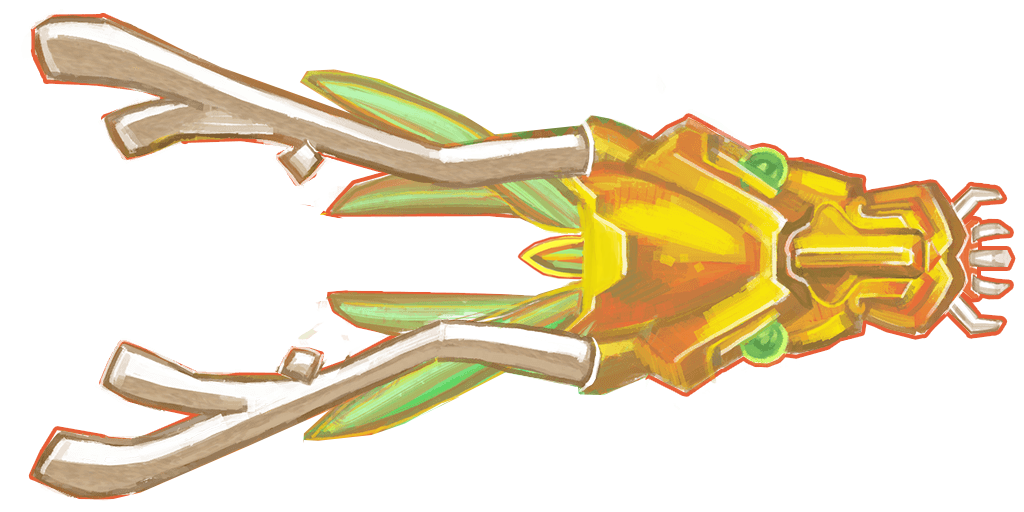
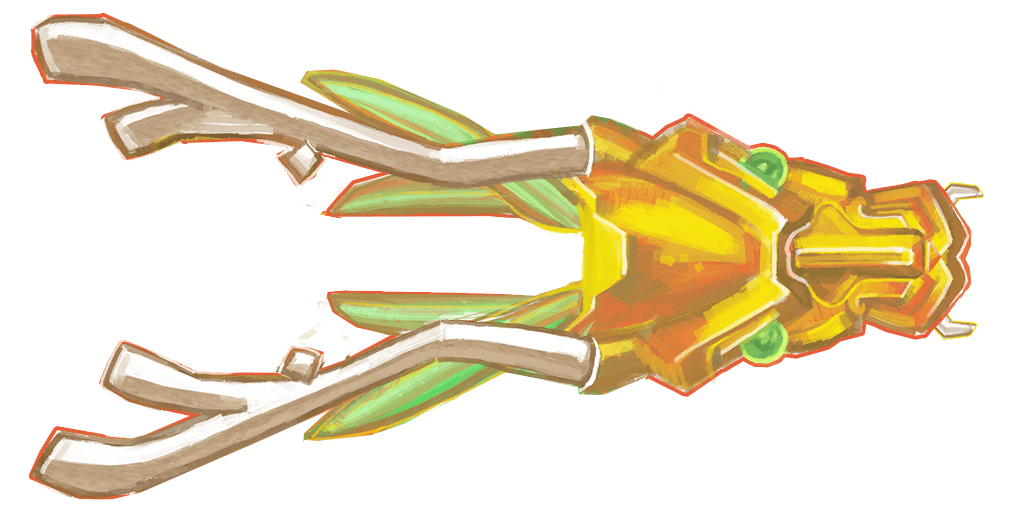
Add geometry for eyes.

Changed region(s): [[0.9062, 0.3438, 1.0, 0.6875], [0.5, 0.4375, 0.5938, 0.5625]]

diff --git a/src/renderer.ts b/src/renderer.ts
@@ -14,7 +14,7 @@
 // Renderer object types
 //
 enum RendererObjectType {
-  SPRITE, SPRITE_PIVOT_RIGHT
+  SPRITE, SPRITE_PIVOT_RIGHT, SPHERE
 }
 
 // Renderer interface
@@ -59,6 +59,8 @@ class ThreeRenderer implements Renderer {
   private scene:    THREE.Scene;
   private textureLoader: THREE.TextureLoader;
 
+  private geometryBuffers = {};
+
   private fadeSpeed:   number;
   private fadeInList:  SlotList;
   private fadeOutList: SlotList;
@@ -94,21 +96,57 @@ class ThreeRenderer implements Renderer {
       this.renderer.setSize(this.width, this.height);
     });
 
-    /*var light1 = new THREE.DirectionalLight( 0xffffff, 0.8 );
+    let light1 = new THREE.DirectionalLight( 0xffffff, 0.8 );
     light1.position.set( -1.0, +1.0, 0.5 );
     this.scene.add( light1 );
 
-    var light2 = new THREE.DirectionalLight( 0xffffff, 0.1 );
+    let light2 = new THREE.DirectionalLight( 0xffffff, 0.1 );
     light2.position.set( +1.0, -1.0, -0.5 );
-    this.scene.add( light2 );*/
+    this.scene.add( light2 );
 
-    //this.renderer.setClearColor( new THREE.Color(255,255,255) );
+    //this.renderer.setClearColor( new THREE.Color(155,155,155) );
 
     this.fadeSpeed    = 1.5;
     this.fadeInList   = new SlotList();
     this.fadeOutList  = new SlotList();
+
+    this.createGeometryBuffers();
   }
 
+  // Geometry to be instantiated by objects
+  //
+  private createGeometryBuffers() {
+    let spriteGeometry    = new THREE.PlaneBufferGeometry( 1.0, 1.0, 1, 1 );
+    let spritePivotRight  = new THREE.BufferGeometry();
+    let sphereGeometry    = new THREE.SphereBufferGeometry(1.0, 6, 6);
+
+    let vertices = new Float32Array( [
+        -1.0, -0.5, 0.0,
+        +0.0, -0.5, 0.0,
+        +0.0, +0.5, 0.0,
+
+        +0.0, +0.5, 0.0,
+        -1.0, +0.5, 0.0,
+        -1.0, -0.5, 0.0 ]);
+    let uvs = new Float32Array( [
+        -0.0, -0.0,
+        +1.0, -0.0,
+        +1.0, +1.0,
+
+        +1.0, +1.0,
+        -0.0, +1.0,
+        -0.0, -0.0 ]);
+
+    spritePivotRight.addAttribute( 'position', new THREE.BufferAttribute(vertices, 3) );
+    spritePivotRight.addAttribute( 'uv', new THREE.BufferAttribute(uvs, 2) );
+
+    this.geometryBuffers[RendererObjectType.SPRITE] = spriteGeometry;
+    this.geometryBuffers[RendererObjectType.SPRITE_PIVOT_RIGHT] = spritePivotRight;
+    this.geometryBuffers[RendererObjectType.SPHERE] = sphereGeometry;
+  }
+
+  // Get an object by id
+  //
   private get(id: number): THREE.Object3D {
       return this.scene.getObjectById(id);
   }
@@ -120,43 +158,21 @@ class ThreeRenderer implements Renderer {
     spriteMap.magFilter = THREE.LinearFilter;
     spriteMap.minFilter = THREE.LinearFilter;
 
-    let spriteMaterial = new THREE.MeshBasicMaterial( { side: THREE.DoubleSide, color: 0xffffff, map: spriteMap, transparent: true, depthTest: false} );
-    let obj: THREE.Mesh;
+    let material: THREE.Material;
 
-    if( type == RendererObjectType.SPRITE_PIVOT_RIGHT ) {
-      let bufferGeometry = new THREE.BufferGeometry()
-      let vertices = new Float32Array( [
-        -1.0, -0.5, 0.0,
-        +0.0, -0.5, 0.0,
-        +0.0, +0.5, 0.0,
-
-        +0.0, +0.5, 0.0,
-        -1.0, +0.5, 0.0,
-        -1.0, -0.5, 0.0
-      ]);
-
-      let uvs = new Float32Array( [
-        -0.0, -0.0,
-        +1.0, -0.0,
-        +1.0, +1.0,
-
-        +1.0, +1.0,
-        -0.0, +1.0,
-        -0.0, -0.0
-      ]);
-
-      bufferGeometry.addAttribute( 'position', new THREE.BufferAttribute(vertices, 3) );
-      bufferGeometry.addAttribute( 'uv', new THREE.BufferAttribute(uvs, 2) );
-      obj = new THREE.Mesh( bufferGeometry, spriteMaterial );
-    }
-    else if( type == RendererObjectType.SPRITE ) {
-      let planeBufferGeometry = new THREE.PlaneBufferGeometry( 1.0, 1.0, 1, 1 );
-      obj = new THREE.Mesh( planeBufferGeometry, spriteMaterial );
+    if( type == RendererObjectType.SPHERE ) {
+      material = new THREE.MeshStandardMaterial({
+        color: 0x9acd66,
+        envMap: spriteMap,
+        emissive: new THREE.Color(0x5f9d4a),
+        metalness: 0.8,
+        roughness: 0.4} );
     }
     else {
-      console.log("Invalid renderer object type.");
-      return 0;
+      material = new THREE.MeshBasicMaterial( { side: THREE.DoubleSide, color: 0xffffff, map: spriteMap, transparent: true} );
     }
+
+    let obj: THREE.Mesh = new THREE.Mesh( this.geometryBuffers[type], material );
 
     obj.position.x = position.x;
     obj.position.y =  position.y;

diff --git a/src/game_object_creature.ts b/src/game_object_creature.ts
@@ -37,10 +37,11 @@ class GameObjectCreature implements GameObject {
   //
   protected renderer: Renderer;
 
-  private static readonly rendererImageHead: string = "headElement0.png";
-  private static readonly rendererImageHeadElement1: string = "headElement1.png";
-  private static readonly rendererImageHeadElement2: string = "headElement2.png";
-  private static readonly rendererImageHeadElement3: string = "headElement3.png";
+  private static readonly rendererImageHead: string        = "headElement0.png";
+  private static readonly rendererImageWingLeft: string    = "headElement1.png";
+  private static readonly rendererImageWingRight: string   = "headElement2.png";
+  private static readonly rendererImageWingCenter: string  = "headElement3.png";
+  private static readonly rendererImageEye: string         = "headElement4.png";
 
   private static readonly rendererImageBody: string = "body.png";
   private static readonly rendererImageTail: string = "tail.png";
@@ -125,11 +126,27 @@ class GameObjectCreature implements GameObject {
       GameObjectCreature.ratioHead ));
 
     headElements.push( new DynamicListPosed(
+      new VectorAreal( this.position.x, this.position.y, this.position.areal * 0.1 ),
+      new Vector(+0.75 * this.position.areal, +0.31 * this.position.areal),
+      Math.PI * 6.0,
+      this.renderer,
+      GameObjectCreature.rendererImageEye,
+      1.0, RendererObjectType.SPHERE ));
+
+    headElements.push( new DynamicListPosed(
+      new VectorAreal( this.position.x, this.position.y, this.position.areal * 0.1 ),
+      new Vector(+0.75 * this.position.areal, -0.31 * this.position.areal),
+      Math.PI * 6.0,
+      this.renderer,
+      GameObjectCreature.rendererImageEye,
+      1.0, RendererObjectType.SPHERE ));
+
+    headElements.push( new DynamicListPosed(
       new VectorAreal( this.position.x, this.position.y, this.position.areal * 2.0 ),
       new Vector(0.0 * this.position.areal, +1.0 * this.position.areal),
       Math.PI * 1.8,
       this.renderer,
-      GameObjectCreature.rendererImageHeadElement1,
+      GameObjectCreature.rendererImageWingLeft,
       GameObjectCreature.ratioTail * 0.6 ));
 
     headElements.push( new DynamicListPosed(
@@ -137,7 +154,7 @@ class GameObjectCreature implements GameObject {
       new Vector(0.0 * this.position.areal, -1.0 * this.position.areal),
       Math.PI * 1.8,
       this.renderer,
-      GameObjectCreature.rendererImageHeadElement2,
+      GameObjectCreature.rendererImageWingRight,
       GameObjectCreature.ratioTail * 0.6 ));
 
     headElements.push( new DynamicListPosed(
@@ -145,7 +162,7 @@ class GameObjectCreature implements GameObject {
       new Vector(+0.0 * this.position.areal, +0.0 * this.position.areal),
       Math.PI * 2.5,
       this.renderer,
-      GameObjectCreature.rendererImageHeadElement3,
+      GameObjectCreature.rendererImageWingCenter,
       GameObjectCreature.ratioTail * 1.4 ));
 
     for(let element of headElements) {
@@ -153,6 +170,8 @@ class GameObjectCreature implements GameObject {
       this.renderer.positionz(element.getID(), +0.002);
     }
     this.renderer.positionz(headElements[0].getID(), +0.003)
+    this.renderer.positionz(headElements[1].getID(), this.position.areal * 0.05 + 0.003)
+    this.renderer.positionz(headElements[2].getID(), this.position.areal * 0.05 + 0.003)
   }
 
   // Append the decoraive branches to the body
@@ -165,7 +184,7 @@ class GameObjectCreature implements GameObject {
       new Vector(0.0 * this.position.areal, +0.8 * this.position.areal),
       Math.PI * 1.0,
       this.renderer,
-      GameObjectCreature.rendererImageHeadElement1,
+      GameObjectCreature.rendererImageWingLeft,
       GameObjectCreature.ratioTail * 0.6 ));
 
     bodyElements.push( new DynamicListPosed(
@@ -173,7 +192,7 @@ class GameObjectCreature implements GameObject {
       new Vector(0.0 * this.position.areal, -0.8 * this.position.areal),
       Math.PI * 1.0,
       this.renderer,
-      GameObjectCreature.rendererImageHeadElement2,
+      GameObjectCreature.rendererImageWingRight,
       GameObjectCreature.ratioTail * 0.6 ));
 
       for(let element of bodyElements) {

diff --git a/src/dynamic_list_posed.ts b/src/dynamic_list_posed.ts
@@ -23,13 +23,16 @@ class DynamicListPosed extends DynamicList {
   private angularSpeed: number; // Rad per second
   private angle: number = null;
 
-  constructor( position: VectorAreal, pose: Vector, angularSpeed: number, renderer: Renderer, image: string, imageRatio: number ) {
+  constructor( position: VectorAreal, pose: Vector, angularSpeed: number,
+               renderer: Renderer, image: string, imageRatio: number,
+               type: RendererObjectType = RendererObjectType.SPRITE_PIVOT_RIGHT ) {
+
       super(position, new Vector(), renderer, image, imageRatio);
       this.angularSpeed = angularSpeed;
       this.pose = pose.copy();
 
       this.id = this.renderer.add(
-            RendererObjectType.SPRITE_PIVOT_RIGHT, image,
+            type, image,
             this.position, this.position.areal * imageRatio, this.position.areal );
   }
 
